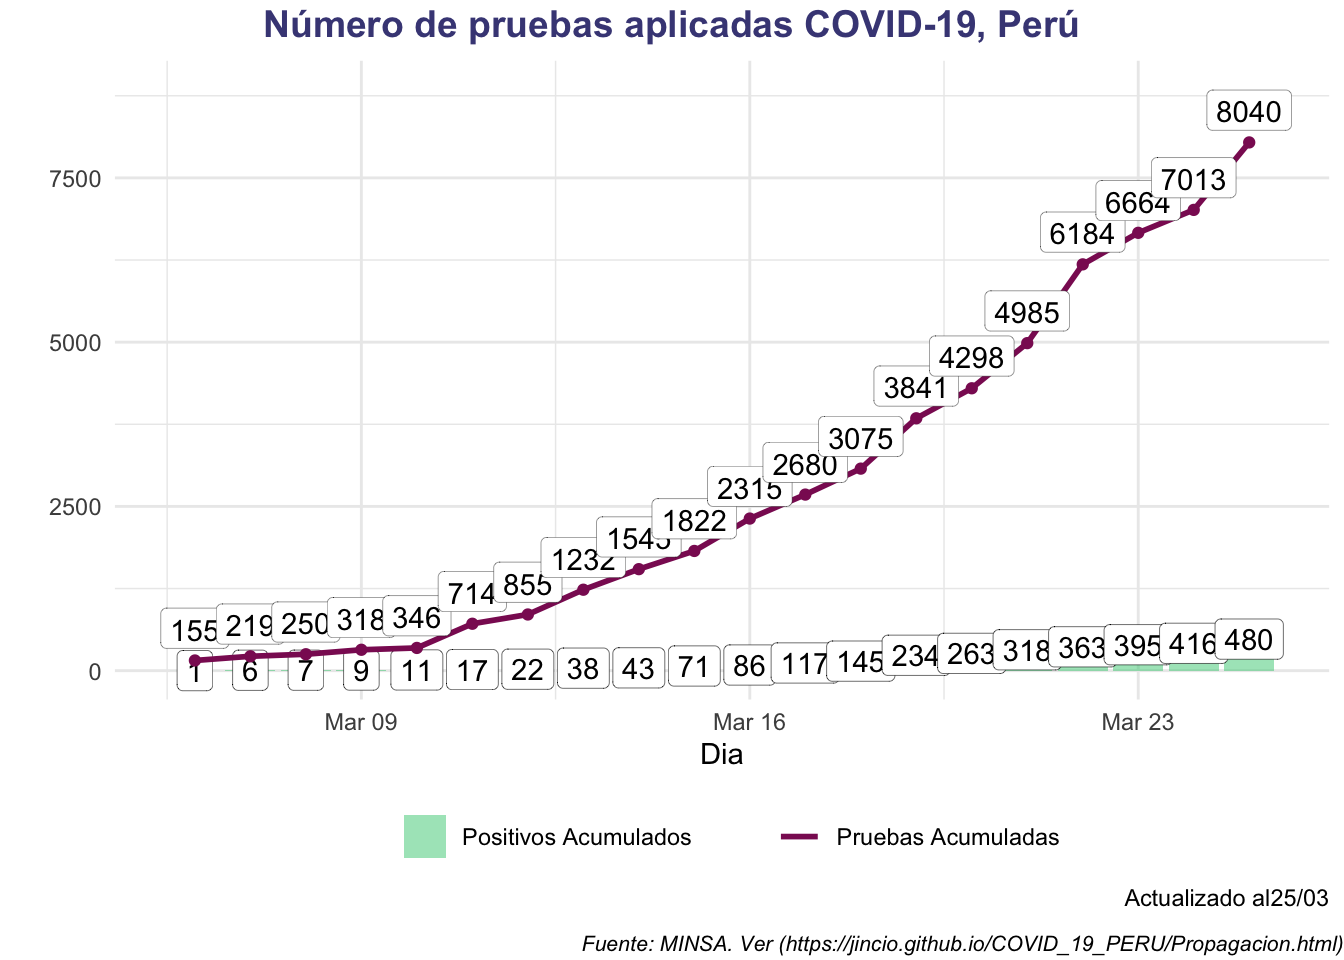
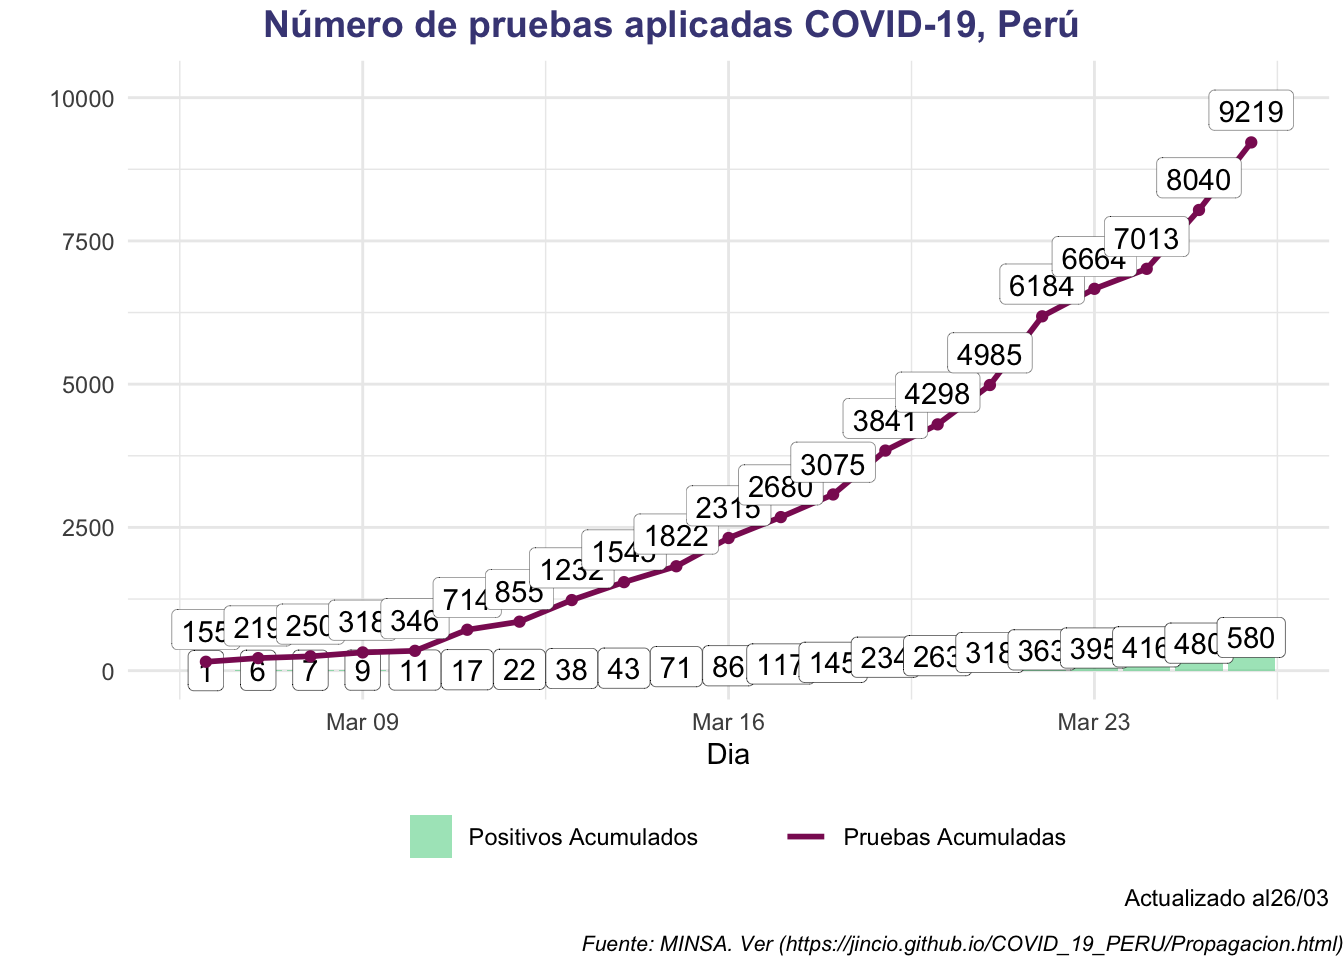
update 03/26

diff --git a/docs/Investigaciones.html b/docs/Investigaciones.html
@@ -372,26 +372,29 @@ div.tocify {
 <p>Papers/links/findings de revistas científicas.</p>
 <div id="links-utiles" class="section level1">
 <h1><span class="header-section-number">1</span> Links útiles</h1>
-<div id="biblioteca-de-upc-articulos-sobre-coronavirus" class="section level2">
-<h2><span class="header-section-number">1.1</span> Biblioteca de UPC: Artículos sobre coronavirus</h2>
-<p><a href="https://biblioteca.upc.edu.pe/covid-19/">Biblioteca-UPC-Coronavirus</a></p>
-</div>
-<div id="jstor-open-access" class="section level2">
-<h2><span class="header-section-number">1.2</span> Jstor (Open access)</h2>
-<blockquote class="twitter-tweet">
-<p lang="en" dir="ltr">
-You can search all open access content on JSTOR without a login - there's more than 6,000 ebooks and over 150 journals: <a href="https://t.co/qEbqqRjN6E">https://t.co/qEbqqRjN6E</a>
-</p>
-— JSTOR (<span class="citation">@JSTOR</span>) <a href="https://twitter.com/JSTOR/status/1240306471168028674?ref_src=twsrc%5Etfw">March 18, 2020</a>
-</blockquote>
-<script async src="https://platform.twitter.com/widgets.js" charset="utf-8"></script>
+<div id="para-consulta" class="section level2">
+<h2><span class="header-section-number">1.1</span> Para Consulta</h2>
+<ul>
+<li>Biblioteca de UPC: Artículos sobre coronavirus
+<a href="https://biblioteca.upc.edu.pe/covid-19/">Biblioteca-UPC-Coronavirus</a></li>
+</ul>
 </div>
 </div>
 <div id="resumenes-y-articulos" class="section level1">
 <h1><span class="header-section-number">2</span> Resumenes y artículos</h1>
 <div id="modelos-sobre-contagio" class="section level2">
 <h2><span class="header-section-number">2.1</span> Modelos sobre contagio</h2>
-<p><a href="https://www.thelancet.com/pdfs/journals/lancet/PIIS0140-6736(20)30260-9.pdf">Nowcasting and forecasting the potential domestic and international spread of the 2019-nCoV outbreak originating in Wuhan, China: a modelling study</a></p>
+<ul>
+<li><a href="https://science.sciencemag.org/content/early/2020/03/25/science.abb4218">The effect of human mobility and control measures on the COVID-19 epidemic in China</a></li>
+</ul>
+<p><strong>Abstract</strong>
+The ongoing COVID-19 outbreak expanded rapidly throughout China. Major behavioral, clinical, and state interventions have been undertaken to mitigate the epidemic and prevent the persistence of the virus in human populations in China and worldwide. It remains unclear how these unprecedented interventions, including travel restrictions, affected COVID-19 spread in China. We use real-time mobility data from Wuhan and detailed case data including travel history to elucidate the role of case importation on transmission in cities across China and ascertain the impact of control measures. Early on, the spatial distribution of COVID-19 cases in China was explained well by human mobility data. Following the implementation of control measures, this correlation dropped and growth rates became negative in most locations, although shifts in the demographics of reported cases were still indicative of local chains of transmission outside Wuhan. This study shows that the drastic control measures implemented in China substantially mitigated the spread of COVID-19.</p>
+<ul>
+<li><a href="https://www.thelancet.com/pdfs/journals/lancet/PIIS0140-6736(20)30260-9.pdf">Nowcasting and forecasting the potential domestic and international spread of the 2019-nCoV outbreak originating in Wuhan, China: a modelling study</a></li>
+</ul>
+<p><strong>Findings</strong></p>
+<p>Findings In our baseline scenario, we estimated that the basic reproductive number for 2019-nCoV was 2·68 (95% CrI 2·47–2·86) and that 75 815 individuals (95% CrI 37 304–130 330) have been infected in Wuhan as of Jan 25, 2020. The epidemic doubling time was 6·4 days (95% CrI 5·8–7·1). We estimated that in the baseline scenario, Chongqing, Beijing, Shanghai, Guangzhou, and Shenzhen had imported 461 (95% CrI 227–805),
+113 (57–193), 98 (49–168), 111 (56–191), and 80 (40–139) infections from Wuhan, respectively. If the transmissibility of 2019-nCoV were similar everywhere domestically and over time, we inferred that epidemics are already growing exponentially in multiple major cities of China with a lag time behind the Wuhan outbreak of about 1–2 weeks.</p>
 </div>
 <div id="cuanto-dura-el-sars-cov-2-coronavirus-en-superficies" class="section level2">
 <h2><span class="header-section-number">2.2</span> Cuanto dura el SARS-COV-2 (Coronavirus) en superficies</h2>

diff --git a/docs/Propagacion.html b/docs/Propagacion.html
@@ -754,6 +754,23 @@ Nuevos_Positivos
 64
 </td>
 </tr>
+<tr>
+<td style="text-align:left;">
+2020-03-26
+</td>
+<td style="text-align:right;">
+580
+</td>
+<td style="text-align:right;">
+9219
+</td>
+<td style="text-align:right;">
+1179
+</td>
+<td style="text-align:right;">
+100
+</td>
+</tr>
 </tbody>
 </table>
 <p>Para los gráficos he adaptado del post de Gabriel Carrasco Escobar (<a href="http://gcarrasco.rbind.io/blog/covid19_viz/" class="uri">http://gcarrasco.rbind.io/blog/covid19_viz/</a>)</p>
